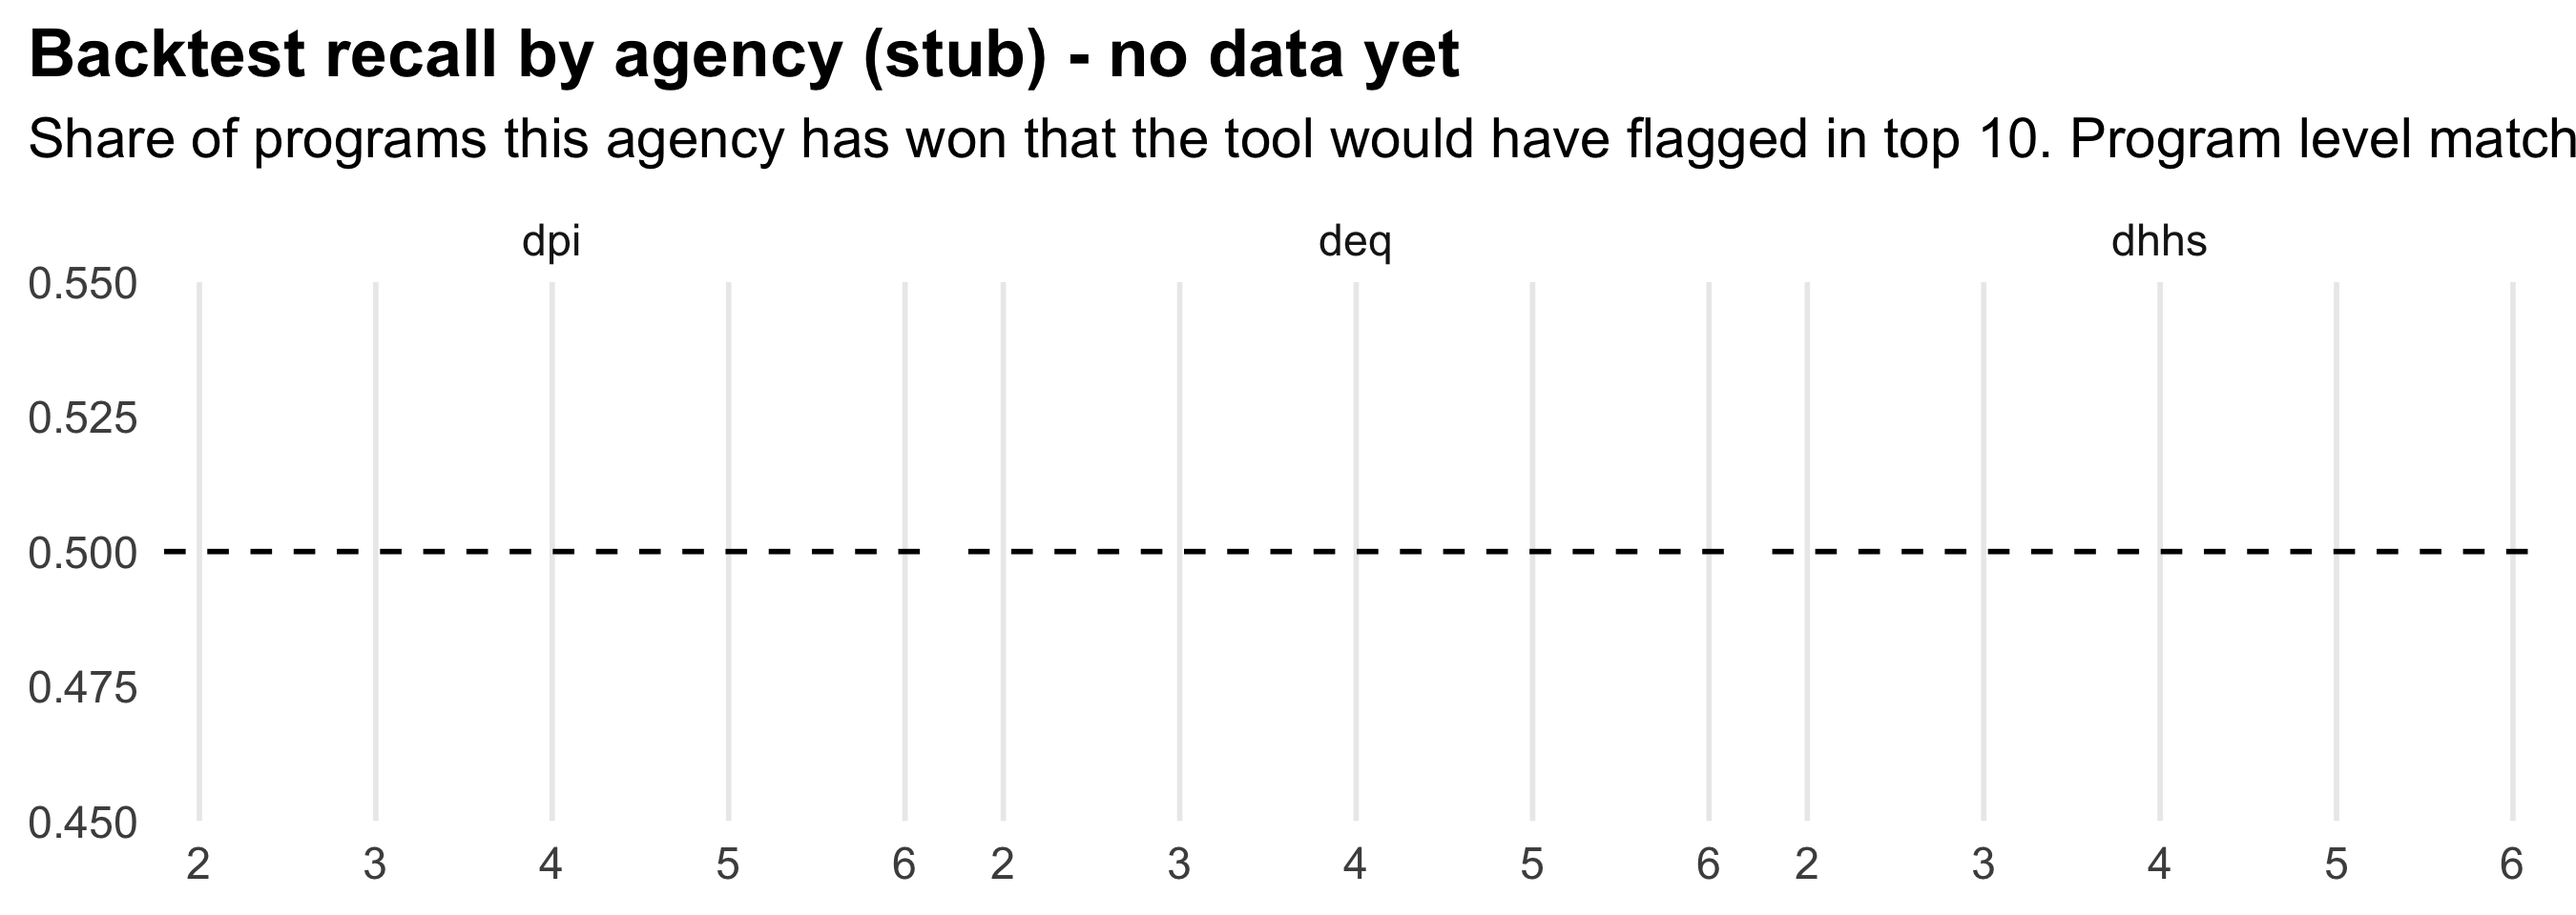
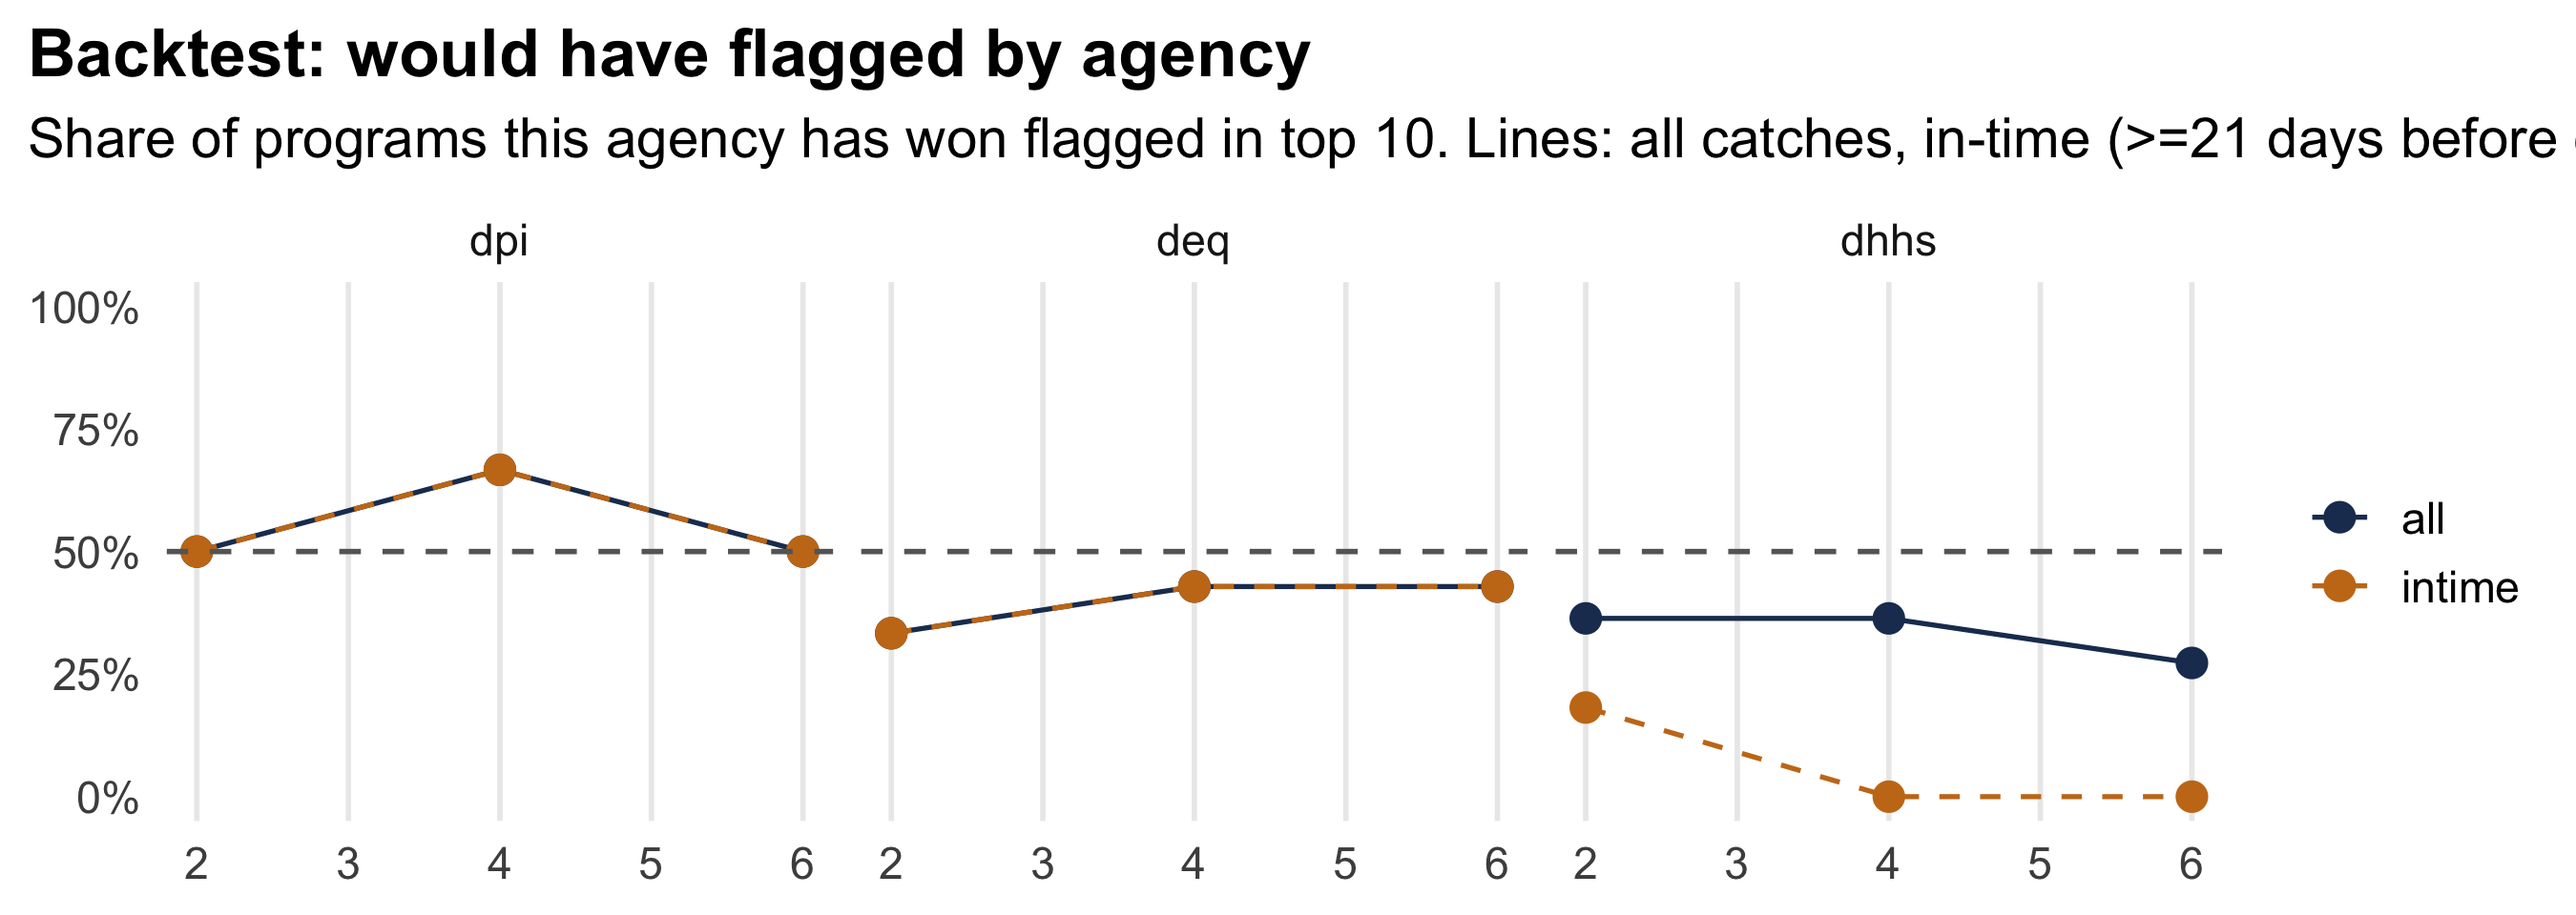
everett/sat-backtest Step 2 real rerun on 152k-row rankings (DPI/DEQ/DHHS)
Ran 20_backtest_awards.R on Kent's real rankings_backtest.csv (origin/kent/sat-pipeline, 152,000 rows, not yet on main).
Counts, Clopper-Pearson intervals, baselines (deadline + random-10 fixed seed), in-time lines.
4-week would-have-flagged: DPI 2/3 67% (CI 9-99%), DEQ 3/7 43% (CI 10-82%), DHHS 4/11 36% (CI 11-69%). Pass bar 50% per agency, 2 of 3 needed: 1 of 3 passes, bar fails. Treated as evidence, not tuned.
Uncertain: DHHS lab excluded, Durham excluded. Program level favors repeat funding. Award data never in score.

diff --git a/Finalists/AI_USAGE_LOG.md b/Finalists/AI_USAGE_LOG.md
@@ -29,3 +29,4 @@ Notes for the disclosure:
 | 2026-11-07 | Kent (Claude Code session) | Claude Opus 5.5 | Merge 1 prep: wrote `data/manual/agency_map.csv` (34 plans, 32 active), `src/R/09_stub_payload.R` producing stub `payload.json` and `rankings_backtest.csv` per `saturday/03_contract.md`; un-ignored `payload.json`; guarded the R/JS agreement test for contract-shape payloads; fact sheet rows 1 and 2 | Kent chose the gitignore and test-guard options; review of the map pending at Merge 1 | Map checked against `MANIFEST.csv` by script (names and files match, ids unique). Stub rerun gives identical `payload.json` (md5). Tests 54 of 55 (same as main), check_facts 5 of 5, both on toy data. **Where the AI was wrong:** first stub picked a forecast with a 2019 close date (-2702 days left); caught on inspection, pick now requires a future close date |
 | 2026-11-07 | Everett (OpenCode / Crouton Alpha session) | Default chat model | Step 1 build (9:30-11:00): `data/manual/agency_award_map.csv` (6 confirmed DPI/DEQ/DHHS recipients, 1 uncertain, 1 excluded) and `src/R/20_backtest_awards.R` against Kent's stub `rankings_backtest.csv`; ran stub to produce `data/processed/backtest_result.csv` and `outs/figures/backtest_recall.png` | Yes, files saved; stub numbers are **not for slides** (real file at 11:00) | Everett human to review map and script; AI did not change pass bar. Reran script twice, diff identical. Pipeline tests 54 of 55 (1 pending is contract-payload ranker, same as Kent on main). **Where the AI was wrong:** first draft used `split(unique(cfda))` which miscounted won sets (19/39/84); caught on message check and fixed to unique `(agency, cfda)` pairs giving 17/41/90; also fixed figure pivot order before first clean run |
 | 2026-11-07 | Kent (Claude Code session) | Claude Sonnet 5.5 + local Ollama qwen2.5:14b | Wrote `drafts/claude/eval/model_label.R`; Ollama qwen2.5:14b labeled the evaluation pool (1,576 open items) against agency goals for 7 agencies, prompt evalpool-v3. Claude also drafted the hand-label workbook and two-machine handoff. | Draft only, labels unvalidated | Validation gate FAILED (kappa 0.44 vs 0.60 needed, 60 hand labels by one labeler). Labels run with force=1 and must be reported as model labels, unvalidated. Not ground truth. |
+| 2026-11-07 | Everett (OpenCode / Crouton Alpha session) | Default chat model | Step 2 rerun (11:00) on real `rankings_backtest.csv` (152,000 rows, 32 agencies, 2/4/6 weeks) from Kent's `origin/kent/sat-pipeline` (not yet on main); produced `data/processed/backtest_result.csv` with counts, Clopper-Pearson intervals, deadline + random-10 baselines, and in-time lines | Yes, files saved; pass bar not changed (result is evidence) | Everett human to verify counts by agency. Script rerun deterministic. Pipeline tests 54 of 55 (same 1 pending). Key limits: program level, small denominators (3-11), baselines beat the model. AI did not tune the bar to pass |
